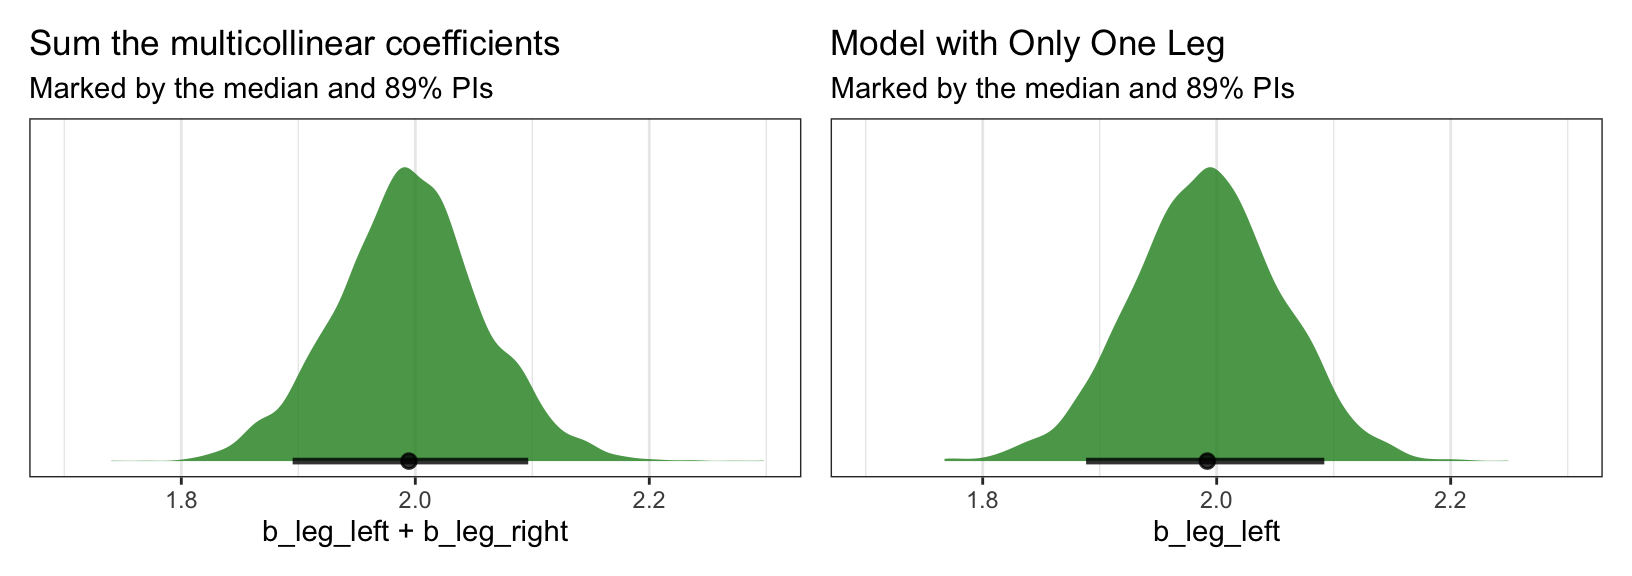
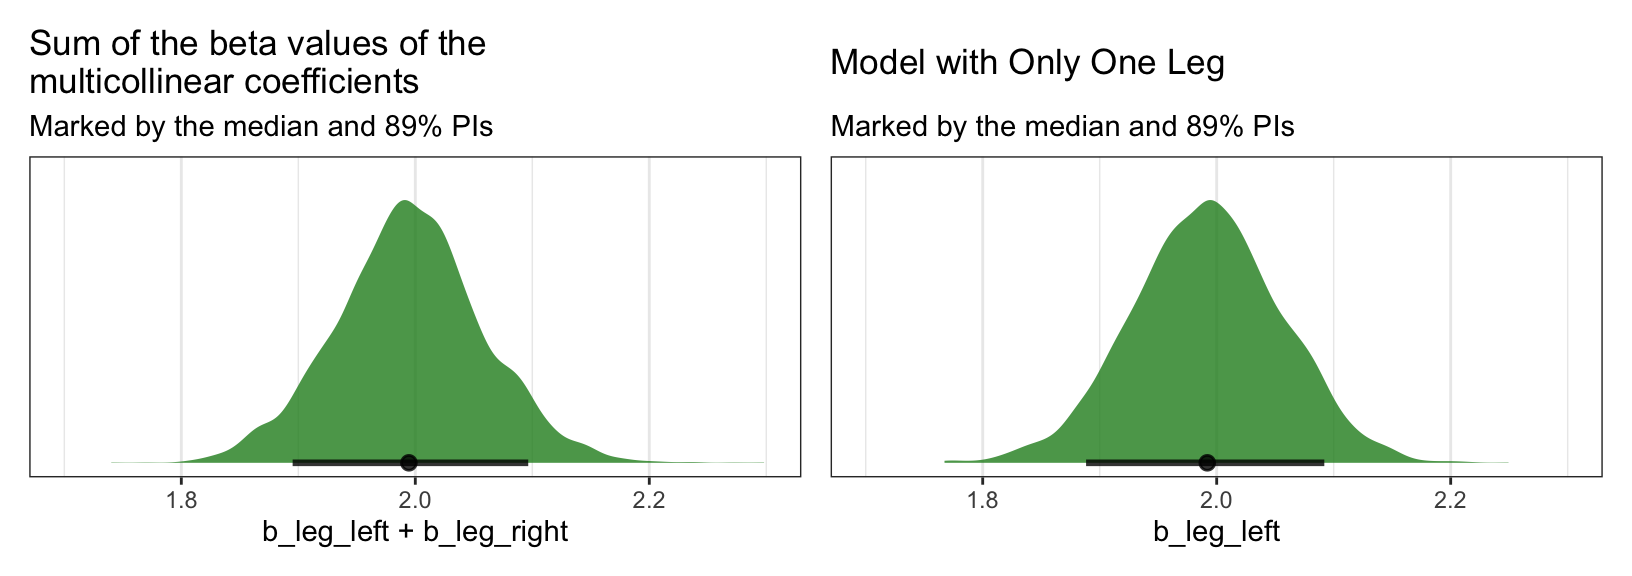
Update multicol and add links to sched

diff --git a/Multicollinearity.html b/Multicollinearity.html
@@ -162,16 +162,16 @@ code span.wa { color: #60a0b0; font-weight: bold; font-style: italic; } /* Warni
 
 </header>
 
-<p>Multicollinearity is important, so let’s talk about it real quick</p>
+<p>Multicollinearity is important, so let’s talk about it.</p>
 <div class="cell">
 
 </div>
+<p>But first, I want to plot the graph from the opening of Chapter 6 on selection bias in science. As mentioned in the text, this is a real problem. I’m sure you can think of examples in your field of papers or funded projects that fall into these categories.</p>
 <section id="selection-bias" class="level3">
 <h3 class="anchored" data-anchor-id="selection-bias">Selection Bias</h3>
 <div class="cell">
 
 </div>
-<p>Plot Selection bias</p>
 <div class="cell">
 <div class="cell-output-display">
 <p><img src="Multicollinearity_files/figure-html/unnamed-chunk-3-1.png" class="img-fluid" width="576"></p>
@@ -180,33 +180,42 @@ code span.wa { color: #60a0b0; font-weight: bold; font-style: italic; } /* Warni
 </section>
 <section id="multicollinearity-simulated-example" class="level2">
 <h2 class="anchored" data-anchor-id="multicollinearity-simulated-example">Multicollinearity: Simulated Example</h2>
-<p>Multicollinearity is a big topic of conversation. Once you hear about it, you will start to see it pop up in a lot of places. Often, you will see it spoken of as this evil feature of data, the worst thing possible, and why your analyses may be totally flawed!!</p>
+<p>Multicollinearity is historically a big topic of conversation in applied statistics. Now that you’ve heard about it, you will start to see it pop up in a lot of places. Often, you will see it spoken of as this evil feature of data, the worst thing possible, and a reason why your analyses may be totally flawed!!</p>
 <p>I think this book does a good job explaining what it is, and why it happens, and how to look out for it. It’s not some evil demon lurking, rather, it’s just a feature of regression. And, in this case, it results in a false negative rather than a false positive.</p>
+<p>Simulate some data</p>
 <div class="cell">
-<div class="sourceCode cell-code" id="cb1"><pre class="sourceCode r code-with-copy"><code class="sourceCode r"><span id="cb1-1"><a href="#cb1-1" aria-hidden="true" tabindex="-1"></a>n <span class="ot">&lt;-</span> <span class="dv">100</span></span>
-<span id="cb1-2"><a href="#cb1-2" aria-hidden="true" tabindex="-1"></a><span class="fu">set.seed</span>(<span class="dv">909</span>)</span>
+<div class="sourceCode cell-code" id="cb1"><pre class="sourceCode r code-with-copy"><code class="sourceCode r"><span id="cb1-1"><a href="#cb1-1" aria-hidden="true" tabindex="-1"></a><span class="co">#packages used in this example. Check out `pacman` if you haven't already!</span></span>
+<span id="cb1-2"><a href="#cb1-2" aria-hidden="true" tabindex="-1"></a>pacman<span class="sc">::</span><span class="fu">p_load</span>(tidyverse, brms, cmdstanr, tidybayes, patchwork)</span>
 <span id="cb1-3"><a href="#cb1-3" aria-hidden="true" tabindex="-1"></a></span>
-<span id="cb1-4"><a href="#cb1-4" aria-hidden="true" tabindex="-1"></a>d <span class="ot">&lt;-</span> </span>
-<span id="cb1-5"><a href="#cb1-5" aria-hidden="true" tabindex="-1"></a>  <span class="fu">tibble</span>(</span>
-<span id="cb1-6"><a href="#cb1-6" aria-hidden="true" tabindex="-1"></a>    <span class="co"># height of person</span></span>
-<span id="cb1-7"><a href="#cb1-7" aria-hidden="true" tabindex="-1"></a>    <span class="at">height   =</span> <span class="fu">rnorm</span>(n, <span class="at">mean =</span> <span class="dv">10</span>, <span class="at">sd =</span> <span class="dv">2</span>),</span>
-<span id="cb1-8"><a href="#cb1-8" aria-hidden="true" tabindex="-1"></a>    <span class="co"># proportion of leg to height, note tiny interval</span></span>
-<span id="cb1-9"><a href="#cb1-9" aria-hidden="true" tabindex="-1"></a>    <span class="at">leg_prop =</span> <span class="fu">runif</span>(n, <span class="at">min =</span> <span class="fl">0.4</span>, <span class="at">max =</span> <span class="fl">0.5</span>)) <span class="sc">%&gt;%</span> </span>
-<span id="cb1-10"><a href="#cb1-10" aria-hidden="true" tabindex="-1"></a>  <span class="co">#calculate left leg values and right leg values</span></span>
-<span id="cb1-11"><a href="#cb1-11" aria-hidden="true" tabindex="-1"></a>  <span class="fu">mutate</span>(<span class="at">leg_left  =</span> leg_prop <span class="sc">*</span> height <span class="sc">+</span> <span class="fu">rnorm</span>(n, <span class="at">mean =</span> <span class="dv">0</span>, <span class="at">sd =</span> <span class="fl">0.02</span>),</span>
-<span id="cb1-12"><a href="#cb1-12" aria-hidden="true" tabindex="-1"></a>         <span class="at">leg_right =</span> leg_prop <span class="sc">*</span> height <span class="sc">+</span> <span class="fu">rnorm</span>(n, <span class="at">mean =</span> <span class="dv">0</span>, <span class="at">sd =</span> <span class="fl">0.02</span>))</span>
-<span id="cb1-13"><a href="#cb1-13" aria-hidden="true" tabindex="-1"></a></span>
-<span id="cb1-14"><a href="#cb1-14" aria-hidden="true" tabindex="-1"></a>d <span class="sc">%&gt;%</span> <span class="fu">head</span>()</span></code><button title="Copy to Clipboard" class="code-copy-button"><i class="bi"></i></button></pre></div>
+<span id="cb1-4"><a href="#cb1-4" aria-hidden="true" tabindex="-1"></a>n <span class="ot">&lt;-</span> <span class="dv">100</span></span>
+<span id="cb1-5"><a href="#cb1-5" aria-hidden="true" tabindex="-1"></a><span class="fu">set.seed</span>(<span class="dv">909</span>)</span>
+<span id="cb1-6"><a href="#cb1-6" aria-hidden="true" tabindex="-1"></a></span>
+<span id="cb1-7"><a href="#cb1-7" aria-hidden="true" tabindex="-1"></a>d <span class="ot">&lt;-</span> </span>
+<span id="cb1-8"><a href="#cb1-8" aria-hidden="true" tabindex="-1"></a>  <span class="fu">tibble</span>(</span>
+<span id="cb1-9"><a href="#cb1-9" aria-hidden="true" tabindex="-1"></a>    <span class="co"># height of person</span></span>
+<span id="cb1-10"><a href="#cb1-10" aria-hidden="true" tabindex="-1"></a>    <span class="at">height   =</span> <span class="fu">rnorm</span>(n, <span class="at">mean =</span> <span class="dv">10</span>, <span class="at">sd =</span> <span class="dv">2</span>),</span>
+<span id="cb1-11"><a href="#cb1-11" aria-hidden="true" tabindex="-1"></a>    <span class="co"># proportion of leg to height, note tiny interval</span></span>
+<span id="cb1-12"><a href="#cb1-12" aria-hidden="true" tabindex="-1"></a>    <span class="at">leg_prop =</span> <span class="fu">runif</span>(n, <span class="at">min =</span> <span class="fl">0.4</span>, <span class="at">max =</span> <span class="fl">0.5</span>)) <span class="sc">%&gt;%</span> </span>
+<span id="cb1-13"><a href="#cb1-13" aria-hidden="true" tabindex="-1"></a>  <span class="co">#calculate left leg values and right leg values</span></span>
+<span id="cb1-14"><a href="#cb1-14" aria-hidden="true" tabindex="-1"></a>  <span class="fu">mutate</span>(<span class="at">leg_left  =</span> leg_prop <span class="sc">*</span> height <span class="sc">+</span> <span class="fu">rnorm</span>(n, <span class="at">mean =</span> <span class="dv">0</span>, <span class="at">sd =</span> <span class="fl">0.02</span>),</span>
+<span id="cb1-15"><a href="#cb1-15" aria-hidden="true" tabindex="-1"></a>         <span class="at">leg_right =</span> leg_prop <span class="sc">*</span> height <span class="sc">+</span> <span class="fu">rnorm</span>(n, <span class="at">mean =</span> <span class="dv">0</span>, <span class="at">sd =</span> <span class="fl">0.02</span>))</span>
+<span id="cb1-16"><a href="#cb1-16" aria-hidden="true" tabindex="-1"></a></span>
+<span id="cb1-17"><a href="#cb1-17" aria-hidden="true" tabindex="-1"></a>d</span></code><button title="Copy to Clipboard" class="code-copy-button"><i class="bi"></i></button></pre></div>
 <div class="cell-output cell-output-stdout">
-<pre><code># A tibble: 6 × 4
-  height leg_prop leg_left leg_right
-   &lt;dbl&gt;    &lt;dbl&gt;    &lt;dbl&gt;     &lt;dbl&gt;
-1   5.93    0.454     2.68      2.71
-2   6.51    0.412     2.68      2.68
-3   9.35    0.422     3.93      3.98
-4   9.23    0.431     3.96      3.99
-5  10.4     0.429     4.43      4.42
-6  10.1     0.494     4.96      4.97</code></pre>
+<pre><code># A tibble: 100 × 4
+   height leg_prop leg_left leg_right
+    &lt;dbl&gt;    &lt;dbl&gt;    &lt;dbl&gt;     &lt;dbl&gt;
+ 1   5.93    0.454     2.68      2.71
+ 2   6.51    0.412     2.68      2.68
+ 3   9.35    0.422     3.93      3.98
+ 4   9.23    0.431     3.96      3.99
+ 5  10.4     0.429     4.43      4.42
+ 6  10.1     0.494     4.96      4.97
+ 7  13.1     0.416     5.40      5.40
+ 8   7.50    0.474     3.54      3.58
+ 9  13.8     0.456     6.30      6.30
+10   7.33    0.444     3.23      3.27
+# … with 90 more rows</code></pre>
 </div>
 </div>
 <p>What happens when we use these two highly correlated variables in our analysis?</p>
@@ -220,29 +229,64 @@ code span.wa { color: #60a0b0; font-weight: bold; font-style: italic; } /* Warni
 </div>
 </div>
 <p>Why does this happen?</p>
-<div class="cell" data-hash="Multicollinearity_cache/html/unnamed-chunk-7_f4cb9962117a1dc80f995e6ba45e0220">
+<div class="cell" data-hash="Multicollinearity_cache/html/unnamed-chunk-7_e8e837635d2e952b8291e26d5f90c065">
 <div class="cell-output-display">
 <p><img src="Multicollinearity_files/figure-html/unnamed-chunk-7-1.png" class="img-fluid" width="672"></p>
 </div>
 </div>
-<p>However, if we simply sum the beta values together?</p>
+<p>What can’t be seen from this plot however is that the correlation is related by draw. When the model estimates a high value for right leg, it estimates an almost equally low value for right leg, with the mean value as the center point!</p>
+<p>See if you can spot that here:</p>
+<div class="cell">
+<div class="sourceCode cell-code" id="cb3"><pre class="sourceCode r code-with-copy"><code class="sourceCode r"><span id="cb3-1"><a href="#cb3-1" aria-hidden="true" tabindex="-1"></a>post <span class="sc">%&gt;%</span> </span>
+<span id="cb3-2"><a href="#cb3-2" aria-hidden="true" tabindex="-1"></a>  <span class="fu">select</span>(b_Intercept, b_leg_left, b_leg_right) <span class="sc">%&gt;%</span> </span>
+<span id="cb3-3"><a href="#cb3-3" aria-hidden="true" tabindex="-1"></a>  <span class="co"># calculate the mean value of the left and right leg estimates</span></span>
+<span id="cb3-4"><a href="#cb3-4" aria-hidden="true" tabindex="-1"></a>  <span class="fu">mutate</span>(<span class="at">mean_leg =</span> (b_leg_left <span class="sc">+</span> b_leg_right)<span class="sc">/</span><span class="dv">2</span>)</span></code><button title="Copy to Clipboard" class="code-copy-button"><i class="bi"></i></button></pre></div>
+<div class="cell-output cell-output-stdout">
+<pre><code># A tibble: 4,000 × 4
+   b_Intercept b_leg_left b_leg_right mean_leg
+         &lt;dbl&gt;      &lt;dbl&gt;       &lt;dbl&gt;    &lt;dbl&gt;
+ 1       1.12       1.85       0.0988    0.973
+ 2       1.12       1.87       0.0731    0.973
+ 3       1.26      -4.06       6.01      0.979
+ 4       0.568      3.28      -1.22      1.03 
+ 5       1.23       0.796      1.14      0.970
+ 6       0.891      1.69       0.334     1.01 
+ 7       1.05      -0.807      2.78      0.988
+ 8       0.712      0.914      1.13      1.02 
+ 9       1.16       0.850      1.09      0.970
+10       0.604      1.81       0.263     1.04 
+# … with 3,990 more rows</code></pre>
+</div>
+</div>
+<p>Look at how those mean values are similar!!!</p>
+<p>Interestingly, if we simply sum the beta values together…</p>
 <div class="cell">
 <div class="cell-output-display">
-<p><img src="Multicollinearity_files/figure-html/unnamed-chunk-8-1.png" class="img-fluid" width="384"></p>
+<p><img src="Multicollinearity_files/figure-html/unnamed-chunk-9-1.png" class="img-fluid" width="384"></p>
 </div>
 </div>
 <p>This is weird - What happens in a model with just one leg?</p>
+<span class="math display">\begin{align*}
+\text{Height}_i   &amp; \sim \operatorname{Normal}(\mu_i, \sigma) \\
+\mu_i &amp; = \alpha + \beta_1 \text{Left-Leg}_i
+\end{align*}</span>
 <div class="cell">
-<div class="sourceCode cell-code" id="cb3"><pre class="sourceCode r code-with-copy"><code class="sourceCode r"><span id="cb3-1"><a href="#cb3-1" aria-hidden="true" tabindex="-1"></a> <span class="co">#patchwork plotting</span></span>
-<span id="cb3-2"><a href="#cb3-2" aria-hidden="true" tabindex="-1"></a>p1 <span class="sc">+</span> p2</span></code><button title="Copy to Clipboard" class="code-copy-button"><i class="bi"></i></button></pre></div>
+<div class="sourceCode cell-code" id="cb5"><pre class="sourceCode r code-with-copy"><code class="sourceCode r"><span id="cb5-1"><a href="#cb5-1" aria-hidden="true" tabindex="-1"></a> <span class="co">#patchwork plotting - the best figure-making package ever!</span></span>
+<span id="cb5-2"><a href="#cb5-2" aria-hidden="true" tabindex="-1"></a>p1 <span class="sc">+</span> p2</span></code><button title="Copy to Clipboard" class="code-copy-button"><i class="bi"></i></button></pre></div>
 <div class="cell-output-display">
-<p><img src="Multicollinearity_files/figure-html/unnamed-chunk-10-1.png" class="img-fluid" width="816"></p>
+<p><img src="Multicollinearity_files/figure-html/unnamed-chunk-11-1.png" class="img-fluid" width="816"></p>
 </div>
 </div>
 <blockquote class="blockquote">
 <p>The basic lesson is only this: When two predictor variables are very strongly correlated (conditional on other variables in the model), including both in a model may lead to confusion. The posterior distribution isn’t wrong, in such cases. It’s telling you that the question you asked cannot be answered with these data. And that’s a great thing for a model to say, that it cannot answer your question. And if you are just interested in prediction, you’ll find that this leg model makes fine predictions. It just doesn’t make any claims about which leg is more important. (p.&nbsp;166)</p>
 </blockquote>
-<p>How do we deal with multicollinearity? 1) Explore your data! 2) Think about a <strong>Scientific Model</strong>, preferably using causal reasoning and Directed Acyclic Graphs, to see the effects of one variable on the other, so you know what to “control for” 3) There are various versions of variable selection. Variance Inflation Factor (VIF) is an older but still commonly used method. Lasso or horseshoe priors are another interesting way to do variable selection. These are really tight priors with really long narrow tails. The idea is that any variable with a large effect size has enough influence to end up in posterior space far away from the mean. A newer method that works with modern Bayesian Multilevel Modeling is Projection Prediction, or <a href="https://mc-stan.org/projpred/">ProjPred</a>, which uses cross validation and model accuracy to determine the importance of different variables. However, these are often easy ways to bypass thoughtful consideration of variables and use “causal salad” to throw it at the wall and see what sticks. <strong><em>Nothing can take the place of a well thought out scientific model and causal reasoning that determines the causal relationships between variables!</em></strong></p>
+<p>How do we deal with multicollinearity?</p>
+<ol type="1">
+<li><p>Explore your data!</p></li>
+<li><p>Think about a <strong>Scientific Model</strong>, preferably using causal reasoning and Directed Acyclic Graphs, to see the effects of one variable on the other, so you know what to “control for.”<br>
+</p></li>
+<li><p>There are various methods of variable selection which can identify co-linear variables. Variance Inflation Factor (VIF) is an older but still commonly used method. Lasso or horseshoe priors are another interesting way to do variable selection. These are really tight priors with really long narrow tails. The idea is that any variable with a large effect size has enough influence to end up in posterior space far away from the mean. A newer method that works with modern Bayesian Multilevel Modeling is Projection Prediction, or <a href="https://mc-stan.org/projpred/">ProjPred</a>, which uses cross validation and model accuracy to determine the importance of different variables. However, these are often easy ways to bypass thoughtful consideration of variables and use “causal salad” to throw it at the wall and see what sticks. <strong><em>Nothing can take the place of a well thought out scientific model and causal reasoning that determines the causal relationships between variables!</em></strong></p></li>
+</ol>
 </section>
 
 </main>

diff --git a/Schedule.html b/Schedule.html
@@ -120,7 +120,7 @@ ul.task-list li input[type="checkbox"] {
 <li>Rethinking: Chapters 5 - Intro to Multiple Regression</li>
 <li>Lectures: <a href="https://www.youtube.com/watch?v=e0tO64mtYMU&amp;list=PLDcUM9US4XdNM4Edgs7weiyIguLSToZRI&amp;index=5">Video 5</a>, <a href="https://www.youtube.com/watch?v=l_7yIUqWBmE&amp;list=PLDcUM9US4XdNM4Edgs7weiyIguLSToZRI&amp;index=6">Video 6</a></li>
 <li>Rethinking in brms: <a href="https://bookdown.org/content/4857/the-many-variables-the-spurious-waffles.html">Chapter 5</a></li>
-<li><strong>Note</strong> - Jon will do a quick walk through of Chapter 6.1 because it’s an important issue that, I swear, some reviewer will bring up to each of you at some point! the rest of Chapter 6 focuses on scientific models and directed acyclic graphs. This is really interesting stuff, and worth revisiting on your own when thinking about variable selection, and forming your models.</li>
+<li><strong>Note</strong> - Jon will do a quick walk through of Chapter 6.1 because it’s an important issue that, I swear, some reviewer will bring up to each of you at some point! the rest of Chapter 6 focuses on scientific models and directed acyclic graphs. This is really interesting stuff, and worth revisiting on your own when thinking about variable selection, and forming your models. You can preview Jon’s 6.1 page <a href="https://htmlpreview.github.io/?https://github.com/jonnations/Rethinking_Seminar_Winter_2023/blob/main/Multicollinearity.html">here</a> or look at the code <a href="https://github.com/jonnations/Rethinking_Seminar_Winter_2023/blob/main/Multicollinearity.qmd">here</a> if you’re curious how it’s put together.</li>
 </ul>
 </section>
 <section id="week-5" class="level4">
